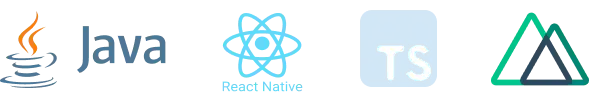
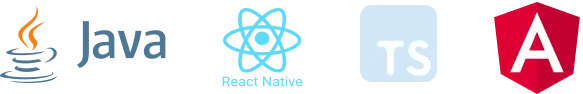
Add new skill: Angular

diff --git a/components/portfolio/skills/Skills.vue b/components/portfolio/skills/Skills.vue
@@ -7,6 +7,7 @@
             <PortfolioSkillsMinimalComponentsSkill alt="Spring" :background="springSkill" />
             <PortfolioSkillsMinimalComponentsSkill alt="TypeScript" :background="tsSkill" />
             <PortfolioSkillsMinimalComponentsSkill alt="React Native" :background="reactNativeSkill" />
+            <PortfolioSkillsMinimalComponentsSkill alt="Angular" :background="angularSkill" />
             <PortfolioSkillsMinimalComponentsSkill alt="Nuxt Js" :background="nuxtSkill" />
             <PortfolioSkillsMinimalComponentsSkill alt="JavaScript" :background="jsSkill" />
             <PortfolioSkillsMinimalComponentsSkill alt="Vue Js" :background="vueSkill" />
@@ -64,6 +65,7 @@
     import springSkill from "~/assets/images/skills/spring.webp"
     import tsSkill from "~/assets/images/skills/ts.webp"
     import reactNativeSkill from "~/assets/images/skills/react-native.webp"
+    import angularSkill from "~/assets/images/skills/angular.webp"
     import nuxtSkill from "~/assets/images/skills/nuxt.webp"
     import jsSkill from "~/assets/images/skills/js.webp"
     import vueSkill from "~/assets/images/skills/vue.webp"
@@ -83,6 +85,7 @@
     import dockerSkill from "~/assets/images/skills/docker.webp"
 
 </script>
+
 
 <style scoped>
 
